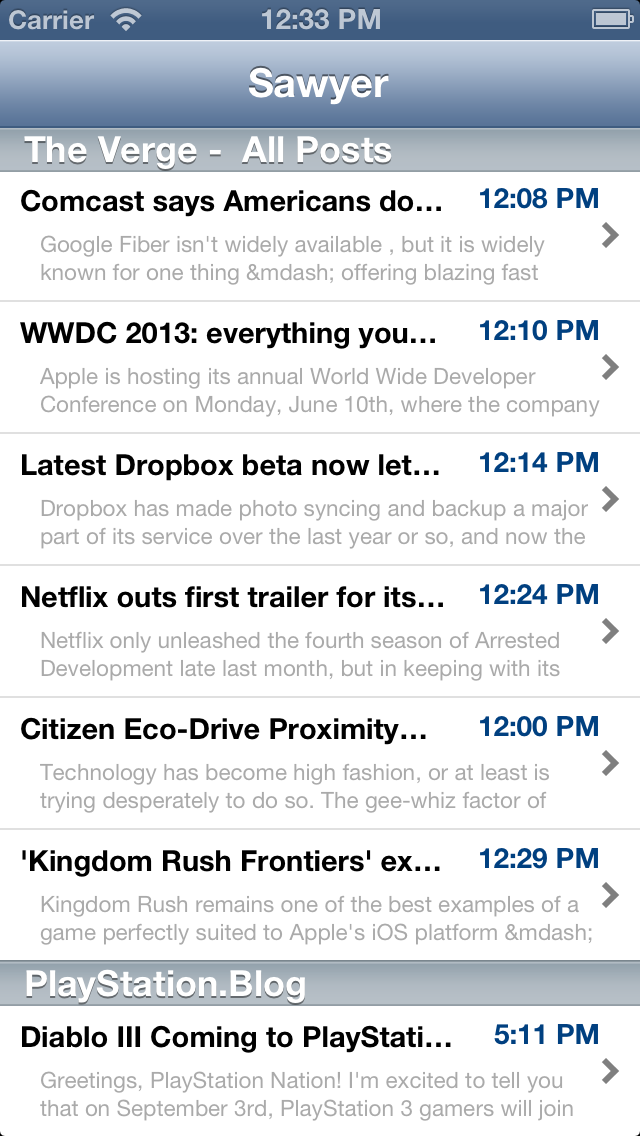
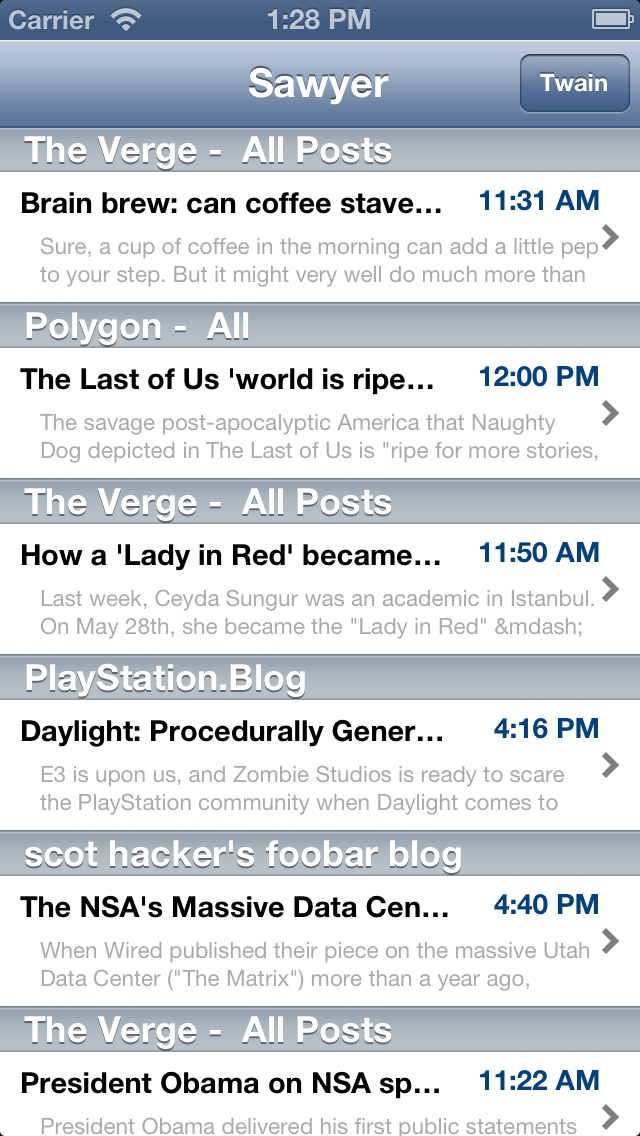
Updated to reflect the latest feature, Twain.

diff --git a/README.md b/README.md
@@ -3,7 +3,12 @@ Sawyer, a River2 reader for iPad, iPhone, and iPod touch on iOS 6.1 or greater.
 
 I decided to create, in a few hours (~4), a reference application to experiment with aspects of the iOS SDK which I don't get a chance to mess around with on a daily basis.  This application uses Storyboards, the UIActivityViewController, and whatever I happen to find compelling to extend the app itself with.  As of yet, this is neither production ready or conformant to my personal coding style.
 
-The default feed points to Dave Winer's personal River, which you may change by visiting Settings.
+The default feed points to Dave Winer's personal River, which you may change by visiting Settings.  I'm not doing any effort to avoid odd encodings, so if the JSONP has an unescaped sequence, you're dead in the water.
+
+Recent Changes
+========
+
+6/7/13 - Added a "Twain" button to scroll to the high-water mark to which the user last manually refreshed.  There is also a visual cue in the section which contains this high-water mark.  My intention is to push that place into iCloud, for coherency across devices.
 
 Screenshots
 ========
